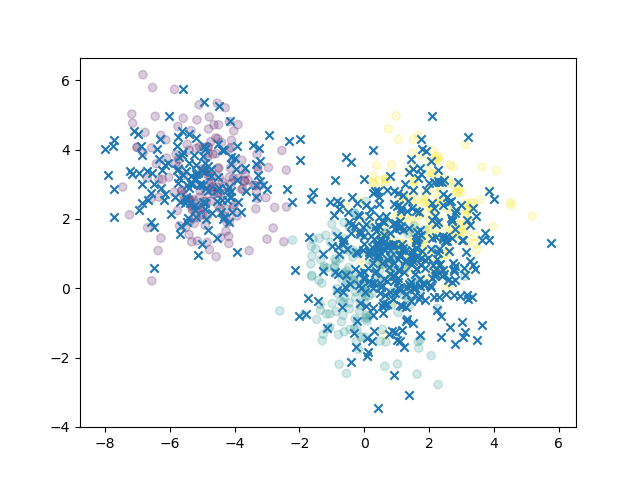
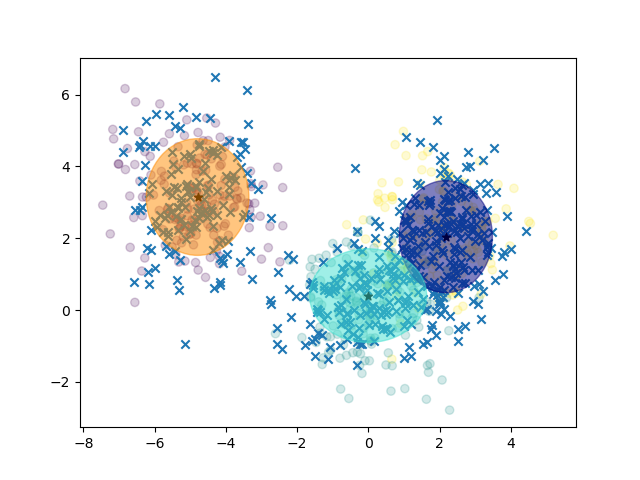
Plot ellipse around the mean of each component

diff --git a/gmm_tfp_simple.py b/gmm_tfp_simple.py
@@ -210,9 +210,10 @@ def inference_vi2(num_epochs=2000, learning_rate=0.05):
         )
     )
 
+    n_samples = 500
     with tf.Session() as sess:
-        x_generated = generate_process.sample(500).eval()
-    return x_generated
+        x_generated = generate_process.sample(n_samples).eval()
+    return x_generated, posterior_pi, posterior_mu, posterior_sigma
 
 
 
@@ -252,12 +253,38 @@ def inference_vi1(num_epochs=2000, learning_rate=0.05):
     plt.savefig('./plots/gmm_tfp_simples_loss_vi1.png')
 
 
+import matplotlib as mpl
+
+def make_ellipses(means, covs, ax):
+    # http://scikit-learn.org/stable/auto_examples/mixture/plot_gmm_covariances.html
+    colors = ['navy', 'turquoise', 'darkorange']
+    for n, color in enumerate(colors):
+
+        covariances = np.diag(covs[n][:2])
+
+        v, w = np.linalg.eigh(covariances)
+        u = w[0] / np.linalg.norm(w[0])
+        angle = np.arctan2(u[1], u[0])
+        angle = 180 * angle / np.pi  # convert to degrees
+        v = 2. * np.sqrt(2.) * np.sqrt(v)
+        ell = mpl.patches.Ellipse(means[n, :2], v[0], v[1],
+                                    180 + angle, color=color)
+        ell.set_clip_box(ax.bbox)
+        ell.set_alpha(0.5)
+        ax.add_artist(ell)
+
 def main():
     # inference_map(num_epochs=2500, learning_rate=0.01)
-    x_generated = inference_vi2(num_epochs=2000, learning_rate=0.075)
+    x_generated, pi, mu, sigma = inference_vi2(num_epochs=2000, learning_rate=0.075)
 
+    print('Cluster proportion: ', pi)
+    
+    _, ax = plt.subplots()
     plt.scatter(observations[:, 0], observations[:, 1], c=true_hidden_component, alpha=0.2)
     plt.scatter(x_generated[:, 0], x_generated[:, 1], marker='x')
+    plt.scatter(mu[:, 0], mu[:, 1], marker='*', c='black')
+    make_ellipses(means=mu, covs=sigma, ax=ax)
+
     plt.savefig('./plots/gmm_tfp_simple_generate1.png')
 
 
